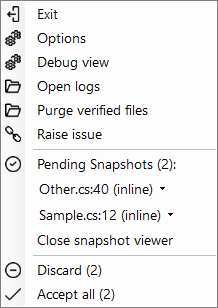
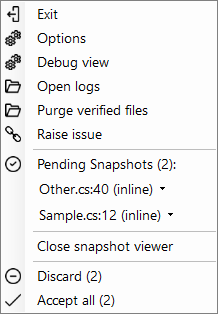
docs

diff --git a/src/DiffEngineTray.Tests/MenuBuilderTest.cs b/src/DiffEngineTray.Tests/MenuBuilderTest.cs
@@ -1,5 +1,3 @@
-using EmptyFiles;
-
 [TUnit.Core.Executors.STAThreadExecutor]
 public class MenuBuilderTest :
     IDisposable
@@ -46,6 +44,7 @@ public class MenuBuilderTest :
     [Test]
     public async Task Full()
     {
+        using var viewer = new FakeViewer("Sample.cs:12", "Other.cs:40");
         await using var tracker = new RecordingTracker();
         tracker.AddDelete(file1);
         tracker.AddDelete(file2);
@@ -121,20 +120,6 @@ public class MenuBuilderTest :
     {
         using var viewer = new FakeViewer("Sample.cs:12", "Other.cs:40");
         await using var tracker = new RecordingTracker();
-        var menu = MenuBuilder.Build(
-            emptyAction,
-            emptyAction,
-            tracker);
-        await Verify(menu, settings);
-    }
-
-    [Test]
-    public async Task FullWithInline()
-    {
-        using var viewer = new FakeViewer("Sample.cs:12");
-        await using var tracker = new RecordingTracker();
-        tracker.AddDelete(file1);
-        tracker.AddMove(file3, file3, "theExe", "theArguments", true, null);
         var menu = MenuBuilder.Build(
             emptyAction,
             emptyAction,

diff --git a/src/DiffEngineTray/MenuBuilder.cs b/src/DiffEngineTray/MenuBuilder.cs
@@ -101,6 +101,15 @@ static class MenuBuilder
             yield return item;
         }
 
+        // Closing the viewer is a process-wide action, not something done to one group's
+        // snapshots, so it sits on its own rather than trailing the last group that happens to
+        // have some.
+        if (snapshots.Count != 0)
+        {
+            yield return new MenuButton("Close snapshot viewer", tracker.CloseViewer);
+            yield return new ToolStripSeparator();
+        }
+
         yield return new MenuButton($"Discard ({count})", tracker.Clear, Images.Discard);
         yield return new MenuButton($"Accept all ({count})", tracker.AcceptAll, Images.AcceptAll);
     }
@@ -198,8 +207,6 @@ static class MenuBuilder
                     () => tracker.Discard(snapshot),
                     () => tracker.Focus(snapshot));
             }
-
-            yield return new MenuButton("Close snapshot viewer", tracker.CloseViewer);
         }
 
         yield return new ToolStripSeparator();

diff --git a/src/DiffEngine/Inline/CsScan.cs b/src/DiffEngine/Inline/CsScan.cs
@@ -174,14 +174,15 @@ sealed class CsScan
     /// The keywords that can sit immediately before a call. Anything else that reads as an
     /// identifier there is a return type or a modifier, which makes what follows a declaration.
     /// </summary>
-    static readonly HashSet<string> callablePredecessors = new(StringComparer.Ordinal)
-    {
+    static readonly HashSet<string> callablePredecessors =
+    [
+        with(StringComparer.Ordinal),
         "and", "as", "await", "by", "case", "catch", "checked", "default", "do", "else",
         "equals", "fixed", "foreach", "from", "goto", "group", "if", "in", "into", "is",
         "join", "let", "lock", "new", "not", "on", "or", "orderby", "out", "params", "ref",
         "return", "select", "stackalloc", "switch", "throw", "unchecked", "using", "when",
         "where", "while", "with", "yield"
-    };
+    ];
 
     /// <summary>
     /// The offset of the last character before <paramref name="index"/> that is neither

diff --git a/src/DiffEngineTray/OwnedInlineHost.cs b/src/DiffEngineTray/OwnedInlineHost.cs
@@ -97,7 +97,7 @@ sealed class OwnedInlineHost :
     /// <summary>
     /// The queue is immutable, so the list can be handed out under the gate without copying it.
     /// </summary>
-    public IReadOnlyList<PendingInline>? Queued()
+    public IReadOnlyList<PendingInline> Queued()
     {
         lock (gate)
         {
@@ -235,14 +235,14 @@ sealed class OwnedInlineHost :
         return (true, message);
     }
 
-    string? IQueueOwner.AcceptAll()
+    string IQueueOwner.AcceptAll()
     {
         var message = AcceptEvery();
         Changed?.Invoke();
         return message;
     }
 
-    string? IQueueOwner.DiscardAll()
+    string IQueueOwner.DiscardAll()
     {
         string message;
         lock (gate)

diff --git a/src/DiffEngineTray.Tests/GlobalUsings.cs b/src/DiffEngineTray.Tests/GlobalUsings.cs
@@ -1,6 +1,7 @@
 global using System.Diagnostics;
 global using System.Net;
 global using System.Net.Sockets;
+global using EmptyFiles;
 
 [assembly: ParallelLimiter<SingleThreadedLimit>]
 
